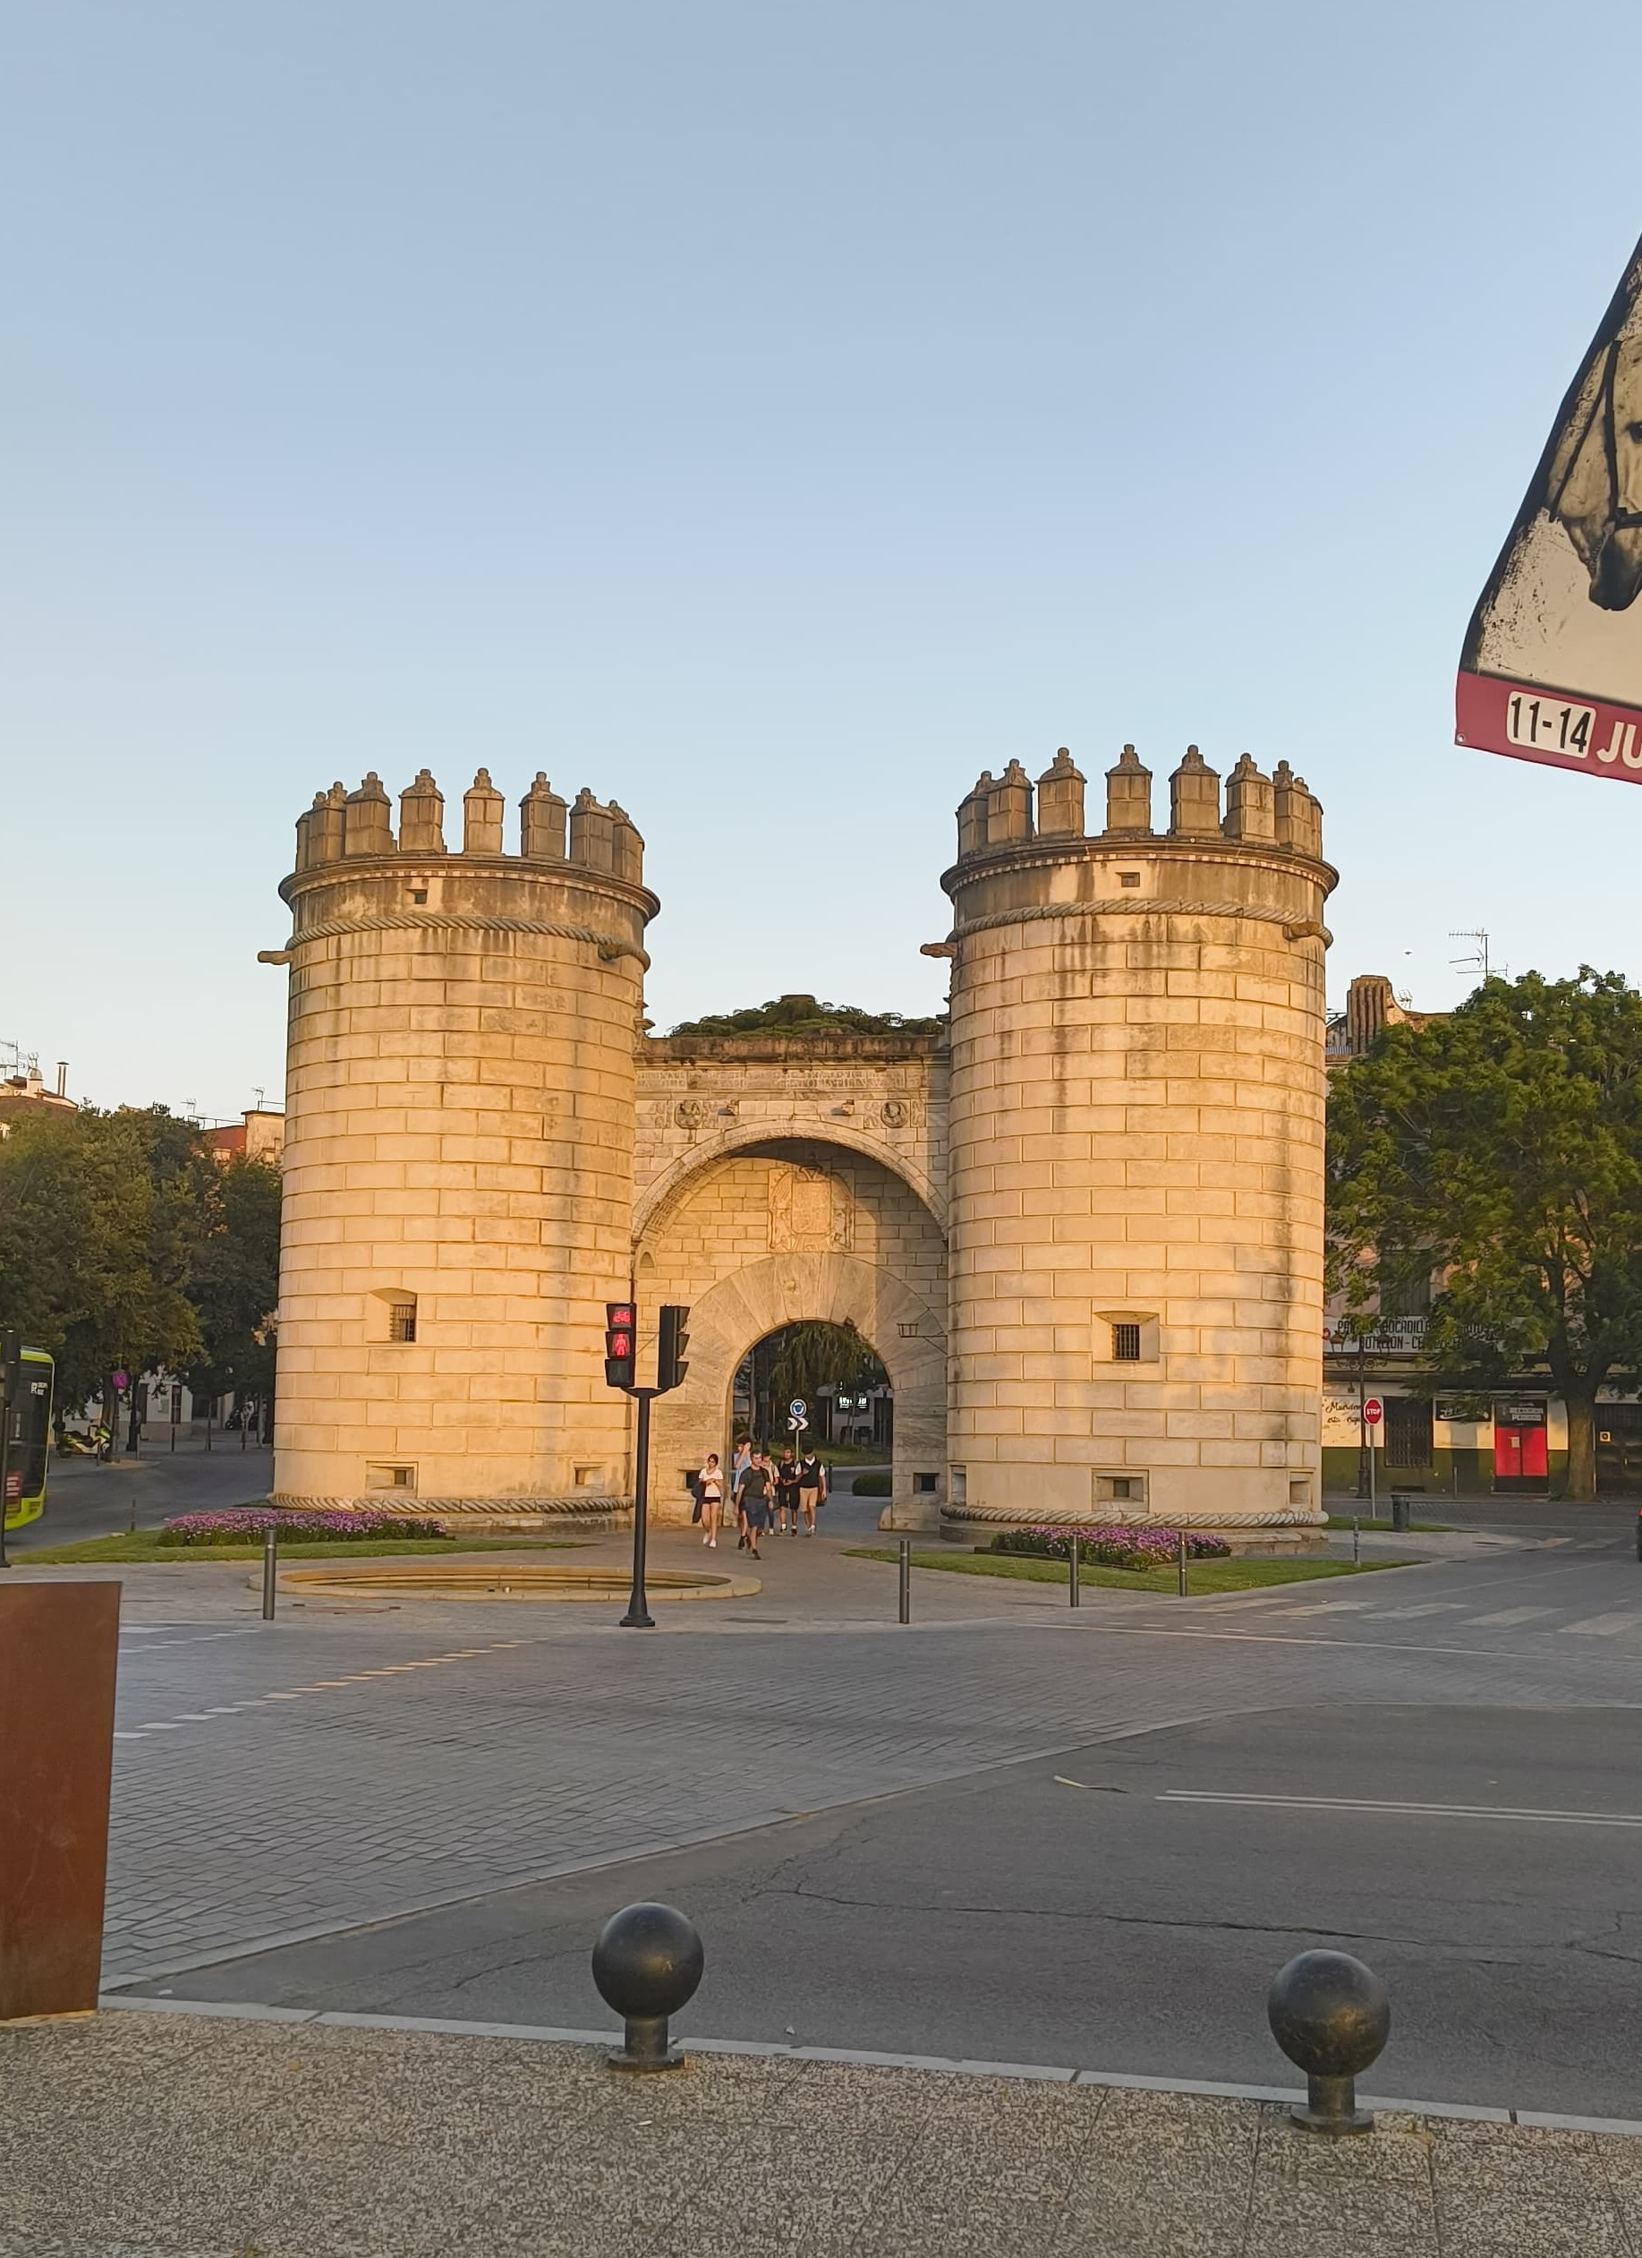
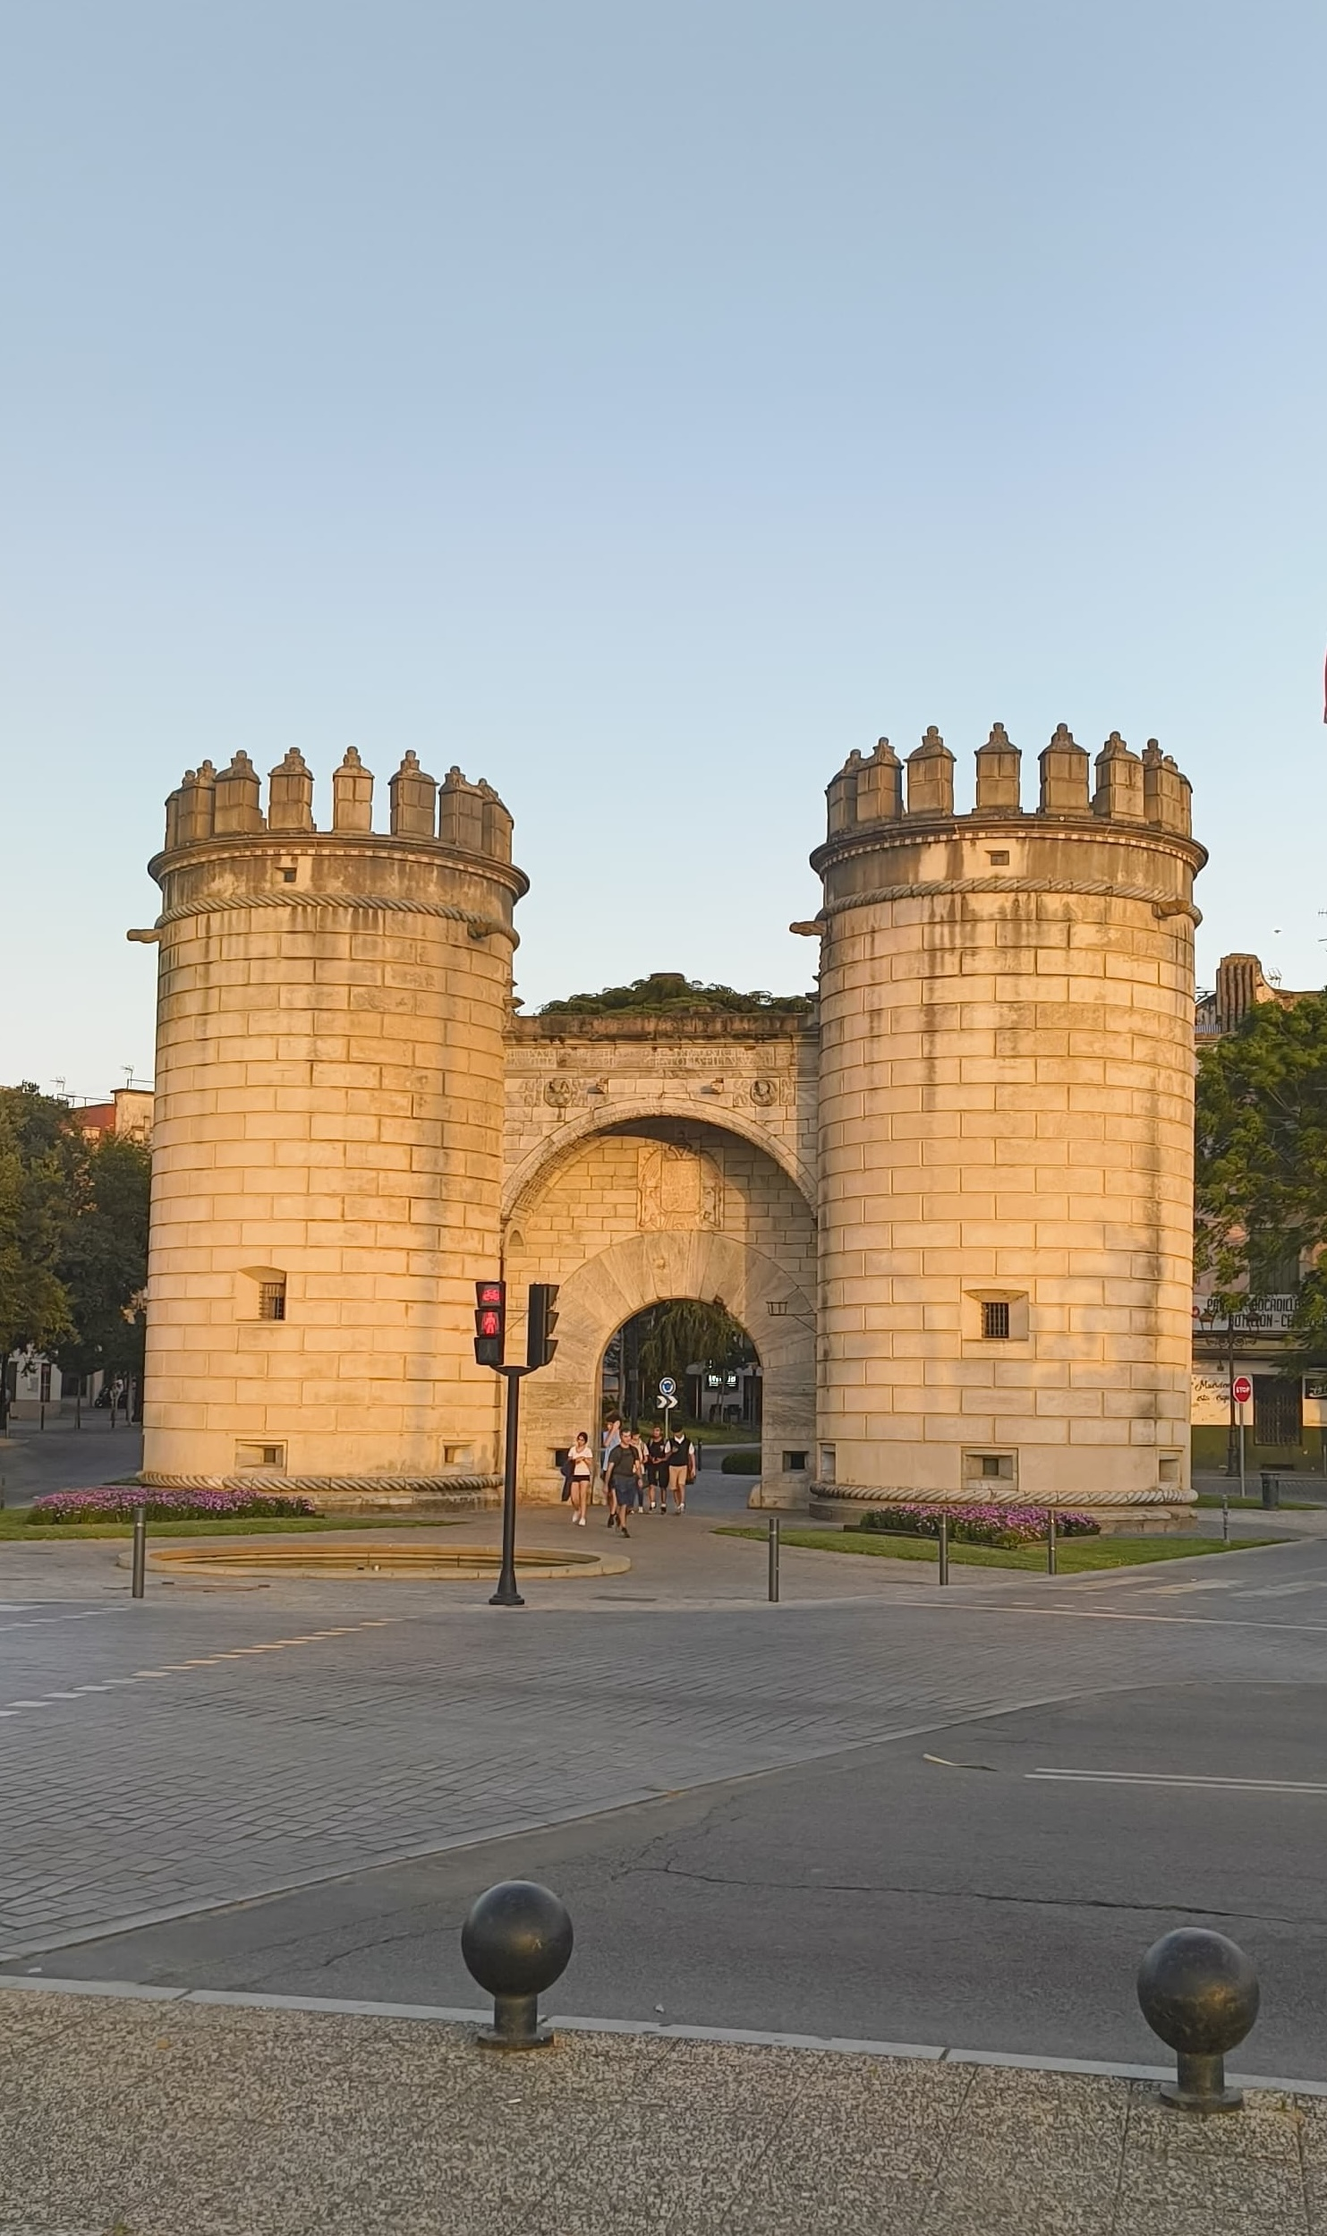
add small mods

diff --git a/css/style.css b/css/style.css
@@ -679,7 +679,8 @@ h1 {
 
 :root:not([data-theme="dark"]) body.about-me-page .site-header,
 :root:not([data-theme="dark"]) body.about-me-page .history-card,
-:root:not([data-theme="dark"]) body.about-me-page .random-stuff-card {
+:root:not([data-theme="dark"]) body.about-me-page .random-stuff-card,
+:root:not([data-theme="dark"]) body.about-me-page .about-story-hero {
   --border: rgba(52, 116, 168, 0.18);
   --text: #10243a;
   --muted: #36566d;
@@ -748,12 +749,12 @@ h1 {
   max-width: 820px;
   padding: clamp(22px, 4vw, 34px);
   margin-bottom: clamp(32px, 6vw, 58px);
-  border: 1px solid rgba(216, 229, 244, 0.24);
+  border: 1px solid var(--border);
   border-radius: var(--radius);
   background:
-    linear-gradient(135deg, rgba(8, 17, 31, 0.78), rgba(13, 28, 49, 0.62)),
-    rgba(8, 17, 31, 0.68);
-  box-shadow: 0 24px 80px rgba(0, 0, 0, 0.26);
+    linear-gradient(135deg, var(--panel-strong), var(--panel)),
+    var(--panel);
+  box-shadow: 0 24px 80px var(--shadow);
   backdrop-filter: blur(12px);
 }
 
@@ -766,7 +767,7 @@ h1 {
 .about-story-hero p:not(.eyebrow) {
   max-width: 680px;
   margin-bottom: 0;
-  color: #d8e5f4;
+  color: var(--muted);
   font-size: clamp(1.02rem, 2vw, 1.22rem);
 }
 
@@ -2700,7 +2701,7 @@ a.running-project-card:focus-visible {
 
   .about-story-hero {
     margin-bottom: 28px;
-    text-shadow: 0 2px 18px rgba(0, 0, 0, 0.32);
+    text-shadow: none;
   }
 
   .about-story-hero h1 {
@@ -2708,7 +2709,7 @@ a.running-project-card:focus-visible {
   }
 
   .about-story-hero p:not(.eyebrow) {
-    color: #f4f8ff;
+    color: var(--muted);
   }
 
   .about-timeline {
